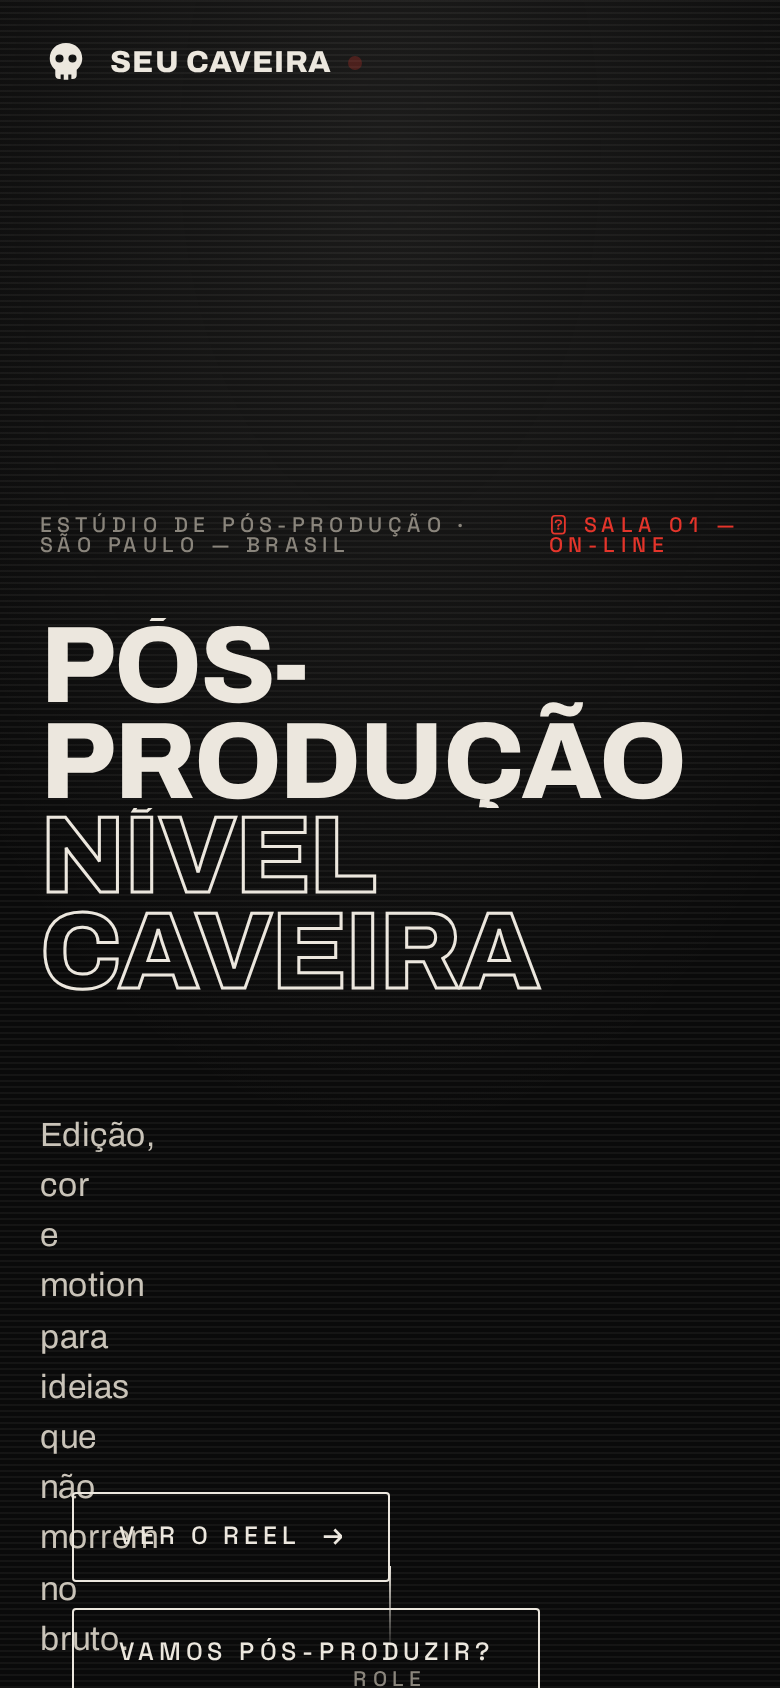
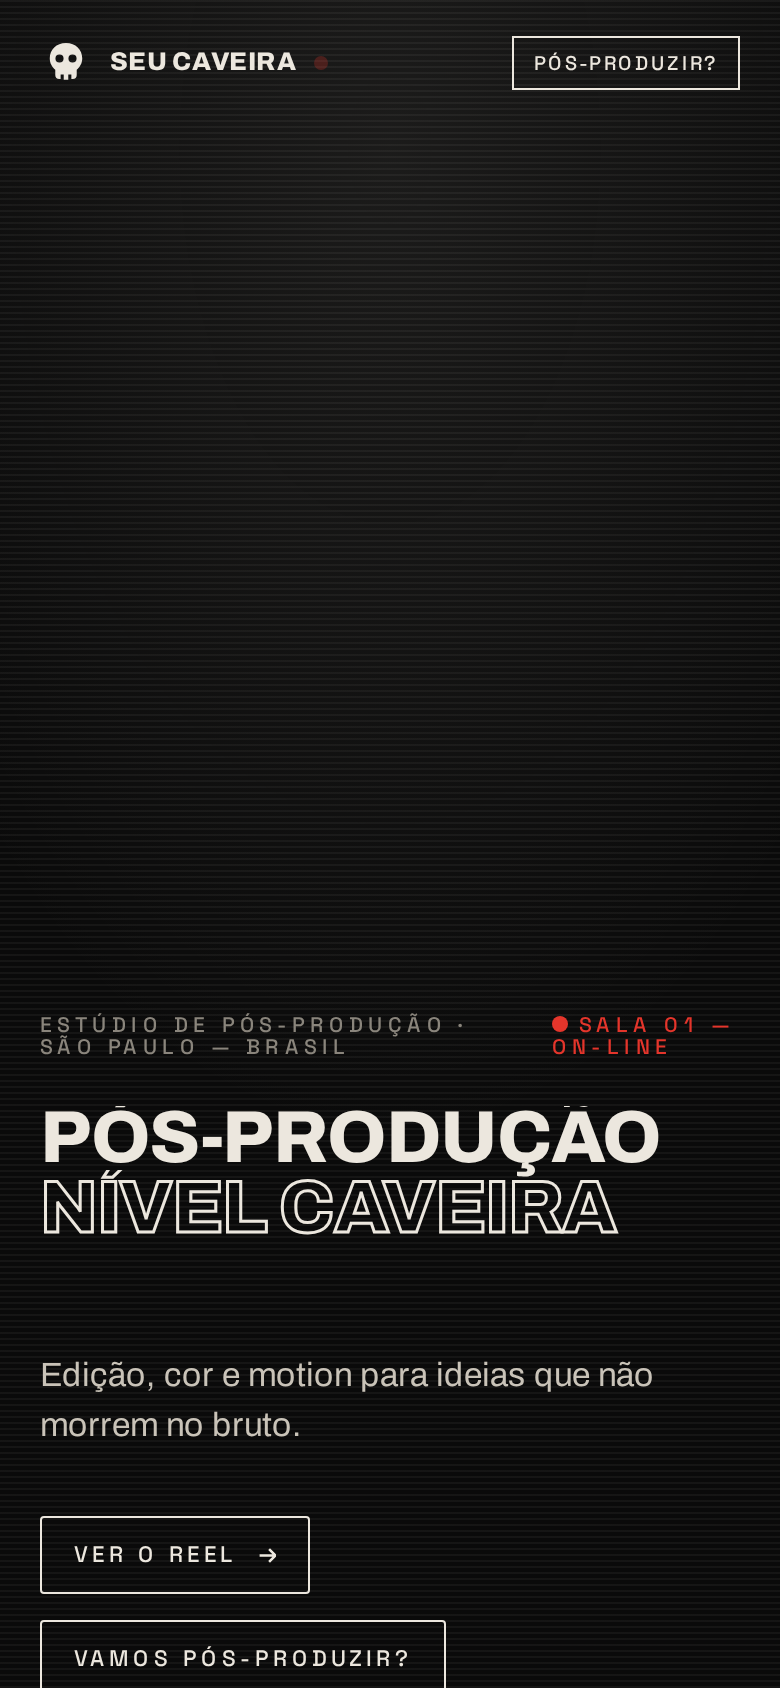
Fix signature pins killed on creation (gsap.context.add runs immediately — cleanup must be the returned fn); element refs instead of subtree-scoped selectors; services pin gated to >=1020px via matchMedia; mobile hero/nav polish; reduced-motion probe in scripts/; README with gate scoreboard

diff --git a/src/components/Services.tsx b/src/components/Services.tsx
@@ -36,40 +36,51 @@ export default function Services() {
   const { ref } = useGSAPContext((self) => {
     const track = trackRef.current;
     if (!track || REDUCE) return;
-    const getDist = () => track.scrollWidth - window.innerWidth + 32;
-    const tween = gsap.to(track, {
-      x: () => -getDist(),
-      ease: "none",
-      scrollTrigger: {
-        trigger: "#servicos",
-        start: "top top",
-        end: () => "+=" + getDist(),
-        pin: true,
-        scrub: 1,
-        invalidateOnRefresh: true,
-        anticipatePin: 1,
-      },
-    });
     // internal entrances: one-shot play (never reverse — QA rule: reverse-on-leave
     // hides copy mid-view; also must fire for the panel already on stage at pin start)
-    PANELS.forEach((_, i) => {
-      const el = track.children[i] as HTMLElement | undefined;
-      if (!el) return;
-      gsap.fromTo(
-        el.querySelectorAll("[data-in]"),
-        { y: 44, opacity: 0 },
-        {
-          y: 0, opacity: 1, duration: 0.85, ease: "power3.out", stagger: 0.08,
-          immediateRender: i !== 0,
-          scrollTrigger: {
-            trigger: el, containerAnimation: tween,
-            start: "left 96%", once: true, toggleActions: "play none none none",
+    const entrances = (containerAnimation?: gsap.core.Tween) => {
+      PANELS.forEach((_, i) => {
+        const el = track.children[i] as HTMLElement | undefined;
+        if (!el) return;
+        gsap.fromTo(
+          el.querySelectorAll("[data-in]"),
+          { y: 44, opacity: 0 },
+          {
+            y: 0, opacity: 1, duration: 0.85, ease: "power3.out", stagger: 0.08,
+            immediateRender: i !== 0,
+            scrollTrigger: containerAnimation
+              ? { trigger: el, containerAnimation, start: "left 96%", once: true, toggleActions: "play none none none" }
+              : { trigger: el, start: "top 88%", once: true },
           },
+        );
+        if (i === 0) gsap.set(el.querySelectorAll("[data-in]"), { y: 0, opacity: 1 });
+      });
+    };
+    // the pinned horizontal chapter is a desktop-only affair; phones stack
+    // the panels vertically with plain entrances (CSS mirrors at 1020px).
+    const mm = gsap.matchMedia();
+    mm.add("(min-width: 1020px)", () => {
+      const getDist = () => track.scrollWidth - window.innerWidth + 32;
+      const tween = gsap.to(track, {
+        x: () => -getDist(),
+        ease: "none",
+        scrollTrigger: {
+          // element, not selector: gsap.context scopes selector strings to the
+          // subtree, and "#servicos" is an ancestor of this context root.
+          trigger: document.getElementById("servicos"),
+          start: "top top",
+          end: () => "+=" + getDist(),
+          pin: true,
+          scrub: 1,
+          invalidateOnRefresh: true,
+          anticipatePin: 1,
         },
-      );
-      if (i === 0) gsap.set(el.querySelectorAll("[data-in]"), { y: 0, opacity: 1 });
+      });
+      entrances(tween);
+      return () => { tween.scrollTrigger?.kill(); tween.kill(); };
     });
-    self.add(() => { tween.scrollTrigger?.kill(); tween.kill(); });
+    mm.add("(max-width: 1019px)", () => entrances());
+    self.add(() => () => mm.revert());
   });
 
   return (

diff --git a/src/styles/global.css b/src/styles/global.css
@@ -122,17 +122,20 @@ svg {
 }
 
 .h-hero {
-  font-size: clamp(3rem, 10.9vw, 150px);
+  font-size: clamp(2.3rem, 9.4vw, 150px);
 }
-.h-claim {
-  font-size: clamp(1.75rem, 4.3vw, 4rem);
-  line-height: 0.94;
-}
+
 .h-sec {
   font-size: clamp(2.2rem, 6.4vw, 6rem);
 }
 .h-min {
   font-size: clamp(1.6rem, 4.2vw, 3.4rem);
+}
+
+
+.h-claim {
+  font-size: clamp(1.7rem, 3.6vw, 3.05rem);
+  line-height: 0.94;
 }
 
 .kicker {
@@ -305,6 +308,17 @@ svg {
   border: 1px solid currentColor;
   padding: 0.6rem 0.95rem;
   opacity: 1;
+  white-space: nowrap;
+}
+@media (max-width: 520px) {
+  .nav-links .nav-cta {
+    padding: 0.5rem 0.6rem;
+    font-size: 0.62rem;
+    letter-spacing: 0.12em;
+  }
+  .brand {
+    font-size: 0.8rem;
+  }
 }
 .nav-links .nav-cta::after {
   display: none;
@@ -624,7 +638,16 @@ svg {
   grid-template-columns: minmax(0, 1fr) auto;
   align-items: end;
   gap: var(--gutter);
-  padding-block: clamp(2rem, 4.5vh, 3.2rem) clamp(2.2rem, 4.5vh, 3rem);
+  padding-block: clamp(1.6rem, 4.5vh, 3.2rem) clamp(2.2rem, 4.5vh, 3rem);
+}
+@media (max-width: 900px) {
+  .hero__row {
+    grid-template-columns: 1fr;
+  }
+  .hero__ctas .btn {
+    padding: 0.8rem 1rem;
+    font-size: 0.7rem;
+  }
 }
 .hero__sub {
   max-width: 34ch;
@@ -703,9 +726,22 @@ svg {
 
 .reel__grid {
   display: grid;
-  grid-template-columns: minmax(0, 0.9fr) minmax(0, 1.6fr);
-  gap: clamp(2rem, 5vw, 5rem);
+  grid-template-columns: minmax(0, 0.85fr) minmax(0, 1.55fr);
+  gap: clamp(2rem, 4.5vw, 4.5rem);
   align-items: center;
+}
+@media (min-width: 1020px) {
+  #reel.band {
+    height: 100svh;
+    display: grid;
+    align-items: center;
+    padding-block: calc(var(--h-nav) + 1.4rem) 1.4rem;
+    overflow: hidden;
+  }
+}
+#reel .grade__tag {
+  top: 3.3rem;
+  bottom: auto;
 }
 @media (max-width: 1020px) {
   .reel__grid {
@@ -816,6 +852,7 @@ svg {
   position: absolute;
   bottom: 0.9rem;
   z-index: 4;
+  max-width: 44%;
   font: 500 0.66rem/1 var(--f-ui);
   letter-spacing: 0.26em;
   text-transform: uppercase;
@@ -1274,6 +1311,7 @@ html:not(.fonts-ready) .h-hero {
 .contact__note {
   color: var(--dim);
   font-size: 0.92rem;
+  margin: 1.6rem 0 0;
 }
 .contact__brief {
   border: 1px solid var(--line-2);
@@ -1472,4 +1510,11 @@ html:not([data-booted="true"]) {
 }
 .grade__tag {
   transition: opacity 0.18s var(--ease-micro-css), filter 0.18s;
+}
+
+/* — mobile: the scroll cue competes with the stacked CTAs — */
+@media (max-width: 900px) {
+  .hero__cue {
+    display: none;
+  }
 }

diff --git a/src/components/Reel.tsx b/src/components/Reel.tsx
@@ -14,10 +14,12 @@ export default function Reel({ webgl }: { webgl: boolean }) {
   const manual = useRef(false);
   const { ref } = useGSAPContext((self) => {
     if (REDUCE) return;
+    // NOTE: pass the element, not a selector — gsap.context scopes selector
+    // strings to the ref subtree, and "#reel" is the subtree ROOT itself.
     const g = ScrollTrigger.create({
-      trigger: ".reel__pin",
+      trigger: document.getElementById("reel"),
       start: "top top",
-      end: "+=160%",
+      end: "+=150%",
       pin: true,
       anticipatePin: 1,
       onUpdate: (st) => {
@@ -28,7 +30,7 @@ export default function Reel({ webgl }: { webgl: boolean }) {
         setReveal(0.06 + v * 0.88);
       },
     });
-    self.add(() => g.kill());
+    self.add(() => () => g.kill());
     gsap.from(".reel__copy > *", {
       y: 44, opacity: 0, duration: 0.85, ease: "power3.out", stagger: 0.08,
       scrollTrigger: { trigger: ".reel__copy", start: "top 86%", once: true },
@@ -58,7 +60,7 @@ export default function Reel({ webgl }: { webgl: boolean }) {
         <div className="reel__grid">
           <div className="reel__copy">
             <span className="sec-label">O reel</span>
-            <h2 className="display h-sec h-claim">Nosso reel não pede licença. Pede replay.</h2>
+            <h2 className="display h-claim">Nosso reel não pede licença. Pede replay.</h2>
             <p className="lede">
               Cor é argumento. A mesma cena, dos dois lados da nossa mesa —
               arraste a linha e veja o plano cru virar filme.

diff --git a/src/components/Manifesto.tsx b/src/components/Manifesto.tsx
@@ -28,7 +28,7 @@ export default function Manifesto() {
         scrollTrigger: { trigger: ".manifesto__text", start: "top 90%", once: true },
       },
     );
-    self.add(() => { st.scrollTrigger?.kill(); count.scrollTrigger?.kill(); });
+    self.add(() => () => { st.scrollTrigger?.kill(); count.scrollTrigger?.kill(); });
   });
 
   return (

diff --git a/src/components/Process.tsx b/src/components/Process.tsx
@@ -42,7 +42,7 @@ export default function Process() {
       });
     };
     if (REDUCE) update(1);
-    self.add(() => {
+    self.add(() => () => {
       st.kill();
       removeEventListener("resize", measure);
     });

diff --git a/README.md b/README.md
@@ -1,1 +1,94 @@
-# seucaveira
+# SEU CAVEIRA — site
+
+Site-of-the-Day attempt for the post-production studio **Seu Caveira** (seucaveira.com).
+Design doctrine: **A MESA É O SITE** — the grade room table is the site. Full spec in
+[`SPEC.md`](SPEC.md); research corpus (Awwwards DNA, briefs, QA evidence) in [`research/`](research/).
+
+Copy is PT-BR, written in the voice of a veteran Brazilian copywriter. All media is
+procedural (GLSL/WebGL + CSS/SVG) — zero remote assets.
+
+## Stack
+
+- Vite + React 19 + TypeScript
+- GSAP + ScrollTrigger (pins, scrubs, stagger entrances) + Lenis (smooth scroll, single rAF via GSAP ticker)
+- React Three Fiber / raw WebGL for the procedural grade plates (100% GLSL — no textures, no video)
+- No UI kit, no CSS framework, no analytics
+
+```
+src/
+  App.tsx                  boot gate, band order, wipe transition
+  lib/motion.ts            gsap/ST/lenis wiring, useGSAPContext, band-visibility IO, REDUCE
+  components/              Boot · Nav · Cursor · Hero · Reel · Acervo · Services ·
+                           Process · GradeLayer · Manifesto · Marquee · Contact
+  shaders/                 grade + plate GLSL
+```
+
+Bands: `#hero #reel #acervo #servicos #processo #estudio #clientes #contato`
+(sections are `main > section.band`; `#contato` is the `footer.band`). Palette binding:
+body `#090909`, hero `#0A0A0A`, reel/serviços `#141414`, acervo `#101010`, processo `#0C0C0C`
+(NLE `#0D0D0D`), estúdio bone inversion `#ECE7DE`, clientes `#131313`, contato `#0E0E0E`.
+
+## Commands
+
+```bash
+npm install
+npm run dev        # http://localhost:5173
+npm run build      # production bundle in dist/ (single chunk, ~130 kB gz)
+npx tsc -b         # typecheck gate
+npm run preview    # serve dist/ (use :4173 for QA)
+```
+
+## QA harness
+
+Measurement runs against the **production preview** (`vite preview`, port 4173) — never dev.
+
+```bash
+# runtime probe (boot, console errors, overflow, screenshots at each band)
+node scripts/qaprobe.mjs http://localhost:4173 research/qa --scroll          # desktop
+node scripts/qaprobe.mjs http://localhost:4173 research/qa-m --mobile        # mobile
+
+# band-map comparison vs the deliberately motionless reference replica
+node ~/mcp-call.mjs verify_build '{"buildUrl":"http://localhost:4173/","referenceUrl":"file:///home/user/seucaveira/research/reference-replica.html","viewport":"desktop"}' /tmp/verify.json
+
+# perf + anti-pattern audit / a11y census / motion DNA (awwwards-mcp)
+node ~/mcp-call.mjs audit_url '{"url":"http://localhost:4173/"}' research/qa/audit-url.json
+node ~/mcp-call.mjs analyze_accessibility '{"url":"http://localhost:4173/"}' research/qa/a11y.json
+node ~/mcp-call.mjs get_motion_dna '{"url":"http://localhost:4173/"}' research/qa/motion-dna.json
+
+# reduced-motion probe (prefers-reduced-motion: reduce, both viewports)
+node scripts/reduced-motion.mjs        # prefers-reduced-motion probe, both viewports
+```
+
+`~/mcp-call.mjs` is a stdio client for `awwwards-mcp` (`/usr/local/lib/node_modules/awwwards-mcp`)
+with `AEGON_BROWSER` pointed at the local Chromium.
+
+## Gate scoreboard (final run, production build)
+
+| Gate | Result |
+|---|---|
+| `tsc -b` / build | ✅ clean, single chunk 388 kB raw / **129.9 kB gz** (budget ≤ 350) |
+| Console errors · failed requests | ✅ `[]` desktop + mobile |
+| Horizontal overflow | ✅ none (390px and 1440px, pinned scroll included) |
+| Band map vs replica | ✅ **80/100**, 8/8 matched, `refOnly []` |
+| Mobile parity (structure) | ✅ same band order, none removed/reordered |
+| Motion fingerprint (live census) | ✅ 2 pins (`#reel`, `#servicos`), 13 ScrollTriggers, scrubs + once-entrances, stagger 0.08/0.09 |
+| Perf audit (`audit_url`) | ✅ high 0 · medium 1 · longTasks 1 (82 ms) · thrash 21 (env-capped fps ~29, see notes) |
+| A11y census | ✅ lang `pt-BR`, heading order no skips, 0 positive tabindex, 0 unlabeled controls |
+| Reduced motion | ✅ instant boot, full opacity content, no pins/lenis, no overflow |
+
+## Notes / honest caveats
+
+- **FPS is environment-capped.** The sandbox renders Chromium via SwiftShader; ~29 fps with
+  GL active is the ceiling there, not the site's. On real hardware the GL layers are trivial
+  (two small procedural canvases, paused via IO when their band is offscreen: `data-vis`).
+- `research/qa-m` mobile band *scores* from `verify_build` sit lower (≈54) because the scanner
+  splits pinned/stacked bands into extra segments on narrow viewports; the DOM itself has exactly
+  one node per band id (verified) and structure parity passes.
+- Outline-text display lines (`NÍVEL CAVEIRA`, service ghosts) intentionally score contrast 1:1
+  in fill-based auto-checkers — the fill is `transparent` by design with a bone stroke; readable
+  at stroke contrast. Ghost letters are decorative.
+- WebGL content can't be pixel-verified headless; `capture_pose_3d` evidence saved in
+  `research/qa/pose.json` (pose-grid frame sampling of the live canvases).
+- Scroll UX: `#reel` pins for `+=150%` (scrubbed grade reveal LOG→FINAL, drag/tap fallback),
+  `#servicos` pins into a horizontal chapter **only ≥1020 px** (`gsap.matchMedia`; phones get
+  the vertical stack), mirroring `research/reference-replica.html`'s static layout.
